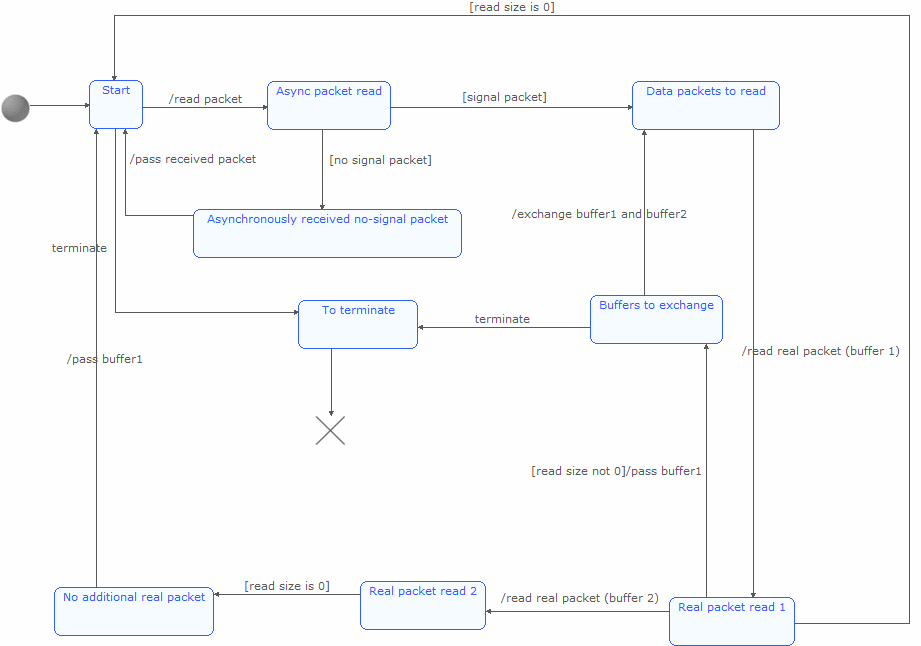
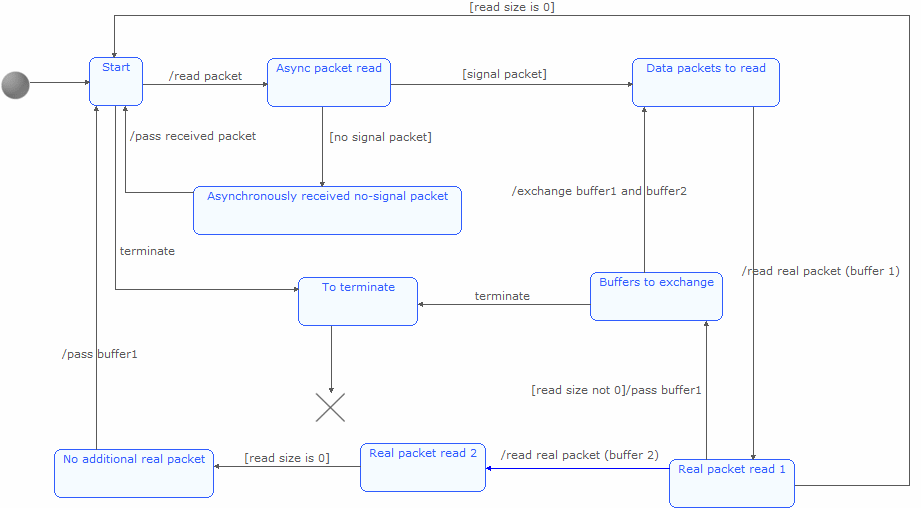
Modified state machine diagram. Included image into documentation.

diff --git a/doc/101_browser_book.tex b/doc/101_browser_book.tex
@@ -2,6 +2,7 @@
 \usepackage[utf8]{inputenc}
 \usepackage{ngerman}
 \usepackage{amssymb}
+\usepackage{graphicx} % for \includegraphics
 \author{Wolfgang Keller}
 \title{Documentation of 101\_browser}
 \begin{document}
@@ -64,6 +65,12 @@ At the time of writing (26th of December 2010) only the Standard library of C/C+
 \part{User documentation}
 
 \part{Reference documentation}
+
+\chapter{Parts of 101\_browser}
+
+\section{Geolocation}
+
+\includegraphics[width=150mm]{uml/GeolocationGarminWin_state_machine.png}
 
 \part{Bits and pieces}
 
